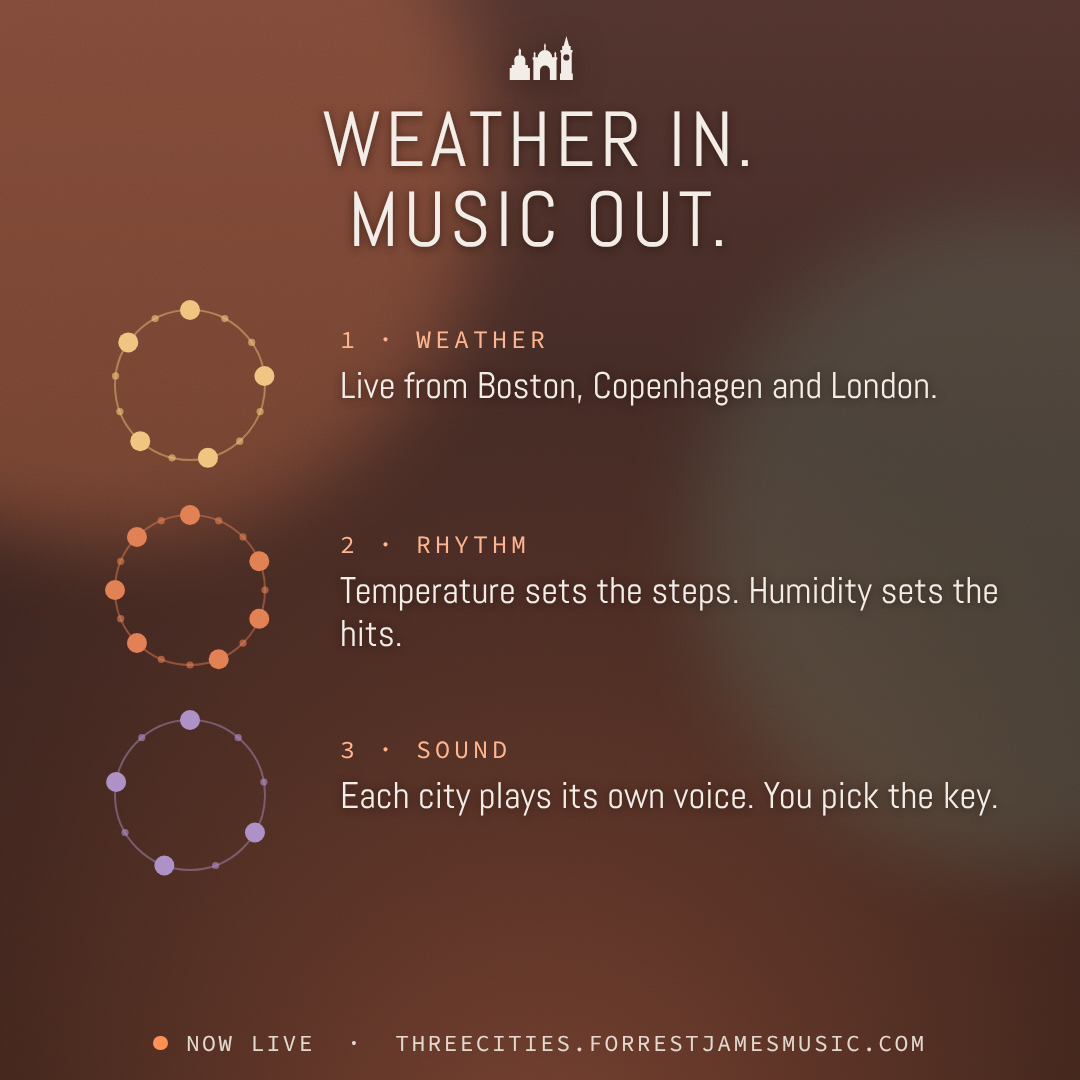
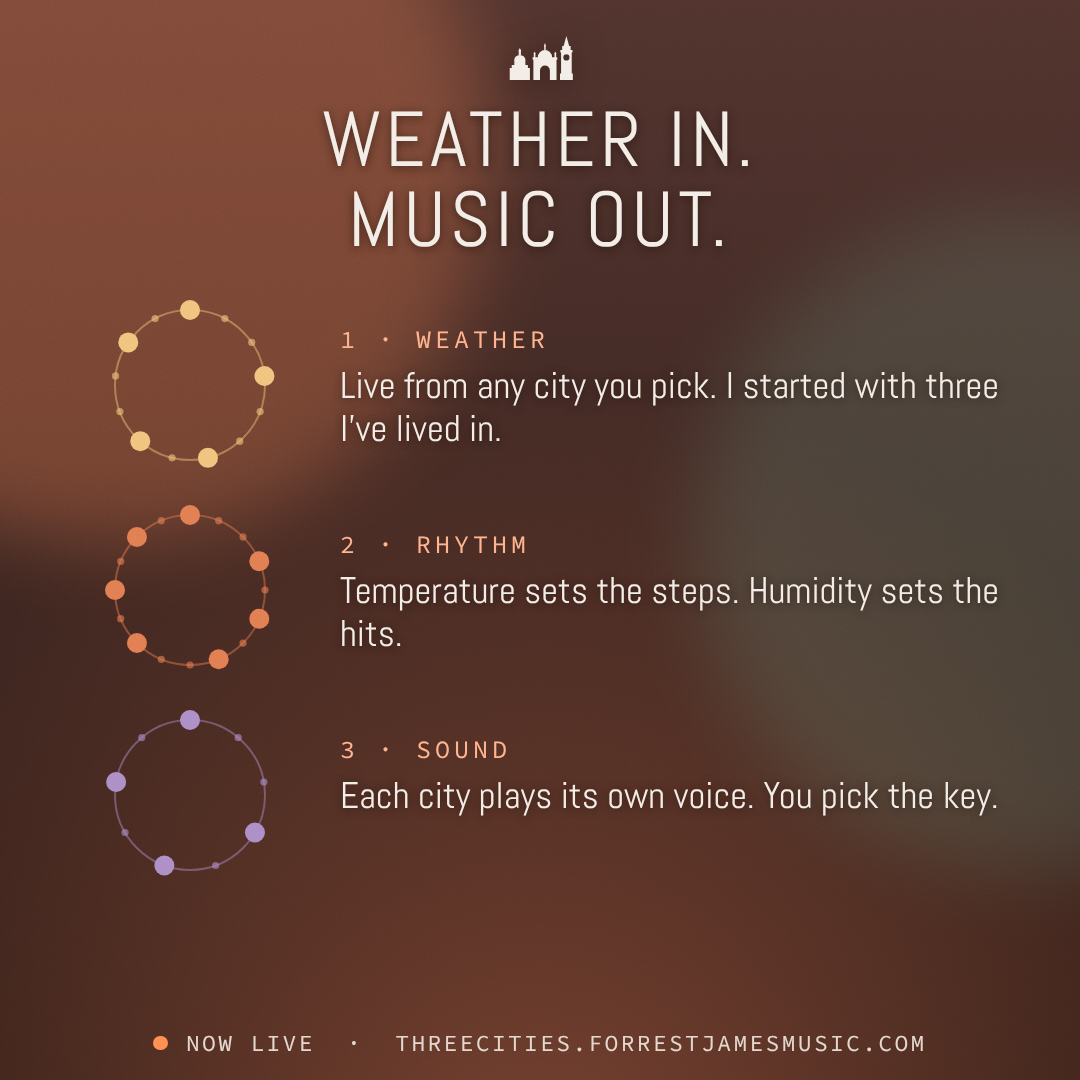
Instagram carousel: add any-city slide, reword step 1
Claude-Session: https://claude.ai/code/session_013wkPBXgzATwqpT2fz47Ydi

Changed region(s): [[0.3361, 0.3361, 0.9167, 0.4278]]

diff --git a/launch-graphics/social/square.html b/launch-graphics/social/square.html
@@ -172,7 +172,7 @@ D['20-hero'] = () => { const f = figS('hero', 60, 335, 960);
   return sq('warm', head('A weather-played<br>instrument') + f.html + line('Three places playing live from their weather.<br>Free, in your browser.', 895, 34) + footS()); };
 
 D['c02-how'] = () => { let art='', txt='';
-  const st=[['Weather',COL.sun,'Live from Boston, Copenhagen and London.'],['Rhythm',COL.ember,'Temperature sets the steps. Humidity sets the hits.'],['Sound',COL.lon,'Each city plays its own voice. You pick the key.']];
+  const st=[['Weather',COL.sun,'Live from any city you pick. I started with three I\'ve lived in.'],['Rhythm',COL.ember,'Temperature sets the steps. Humidity sets the hits.'],['Sound',COL.lon,'Each city plays its own voice. You pick the key.']];
   st.forEach(([h,c,b],i)=>{ const cy=385+i*205; const n=[13,16,9][i], k=[5,7,4][i];
     art += ringSvg(190, cy, 75, n, k, c, {dotR:10});
     txt += `<div class="a mono" style="left:340px;top:${cy-62}px;font-size:25px;letter-spacing:.16em;text-transform:uppercase;color:#ffb08a">${i+1} · ${h}</div><div class="a" style="left:340px;top:${cy-20}px;width:680px;font-size:37px;line-height:1.15;color:var(--ink);text-shadow:0 1px 8px rgba(30,14,8,.6)">${b}</div>`; });
